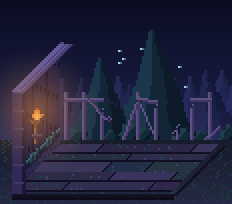
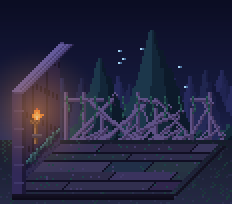
Balcony forest: dramatically collapsed fence barricade (impassable)
Claude-Session: https://claude.ai/code/session_01FPZSaKiVNU2zED737yZX4w

Changed region(s): [[0.3017, 0.4412, 0.9655, 0.7059], [0.3319, 0.4706, 0.3621, 0.5588], [0.2716, 0.4706, 0.3017, 0.5588]]

diff --git a/tools/render_balcony_forest.py b/tools/render_balcony_forest.py
@@ -77,6 +77,18 @@ def main():
     jag(g6, int(by) - 5, 2); jag(g6 + 2, int(by) - 8, 2)
     beam(posts[7] + 4, int(by), posts[7] + 14, int(by - 9), 2)                                           # 쓰러져 다른 기둥에 기댄 널빤지
     for k in range(5): put(posts[2] + 3 + k, int(by - RAIL + 4 + k // 2), WOODD)                          # 부러진 기둥 옆 갈라진 파편
+    # 더 극적으로: 울타리 전체가 무너져 얽힌 바리케이드(한눈에 지나갈 수 없게). 굵은 대각 들보, 빽빽한 잔해 더미, 갈라진 끝, 덩굴
+    hb = int(by)
+    for xa, ya, xb2, yb2, th in ((posts[0], hb, posts[2] + 6, hb - RAIL + 2, 3), (posts[2], hb - 2, posts[4] + 4, hb - RAIL + 5, 3), (posts[1] + 4, hb - RAIL + 4, posts[3] + 8, hb - 3, 3),
+                                 (posts[3] + 2, hb, posts[5] + 6, hb - RAIL + 8, 3), (posts[5], hb - RAIL + 3, posts[7] + 2, hb - 1, 3), (posts[6] + 6, hb, posts[8], hb - RAIL + 6, 3),
+                                 (posts[4] - 2, hb - 6, posts[6] + 3, hb - RAIL + 10, 2), (posts[7] + 6, hb - RAIL + 5, posts[8] + 6, hb - 4, 2)):
+        beam(xa, ya, xb2, yb2, th); jag(xb2, yb2, 3)
+    rr = random.Random(44)
+    for k in range(34):                                                  # 바닥에 쌓인 부러진 널빤지 더미(울타리 아래 전체)
+        x0 = rr.randrange(bx0, bx1 - 4); y0 = hb - rr.randrange(0, 4); ln = rr.randrange(5, 12)
+        ang = rr.choice((-.9, -.5, -.2, .2, .5, .9)); beam(x0, y0, x0 + int(ln), y0 - int(ln * abs(ang) * 1.1) - 1, rr.choice((1, 2)))
+    for x in range(bx0 + 3, bx1, 7):                                     # 걸린 덩굴(청록)
+        for yy in range(int(hb - RAIL + 2), int(hb - RAIL + 2 + rr.randrange(8, 16))): put(x + (yy // 4) % 2, yy, (30, 70, 64) if yy % 3 else (46, 96, 84))
     # 땅: 숲 바닥이 지평선 아래 전체에 이어진다(판 아래·앞·오른쪽으로 계속): 흙 + 이끼 + 풀 + 가는 길
     gr = random.Random(9)
     for Y in range(int(by) - 2, CH):
